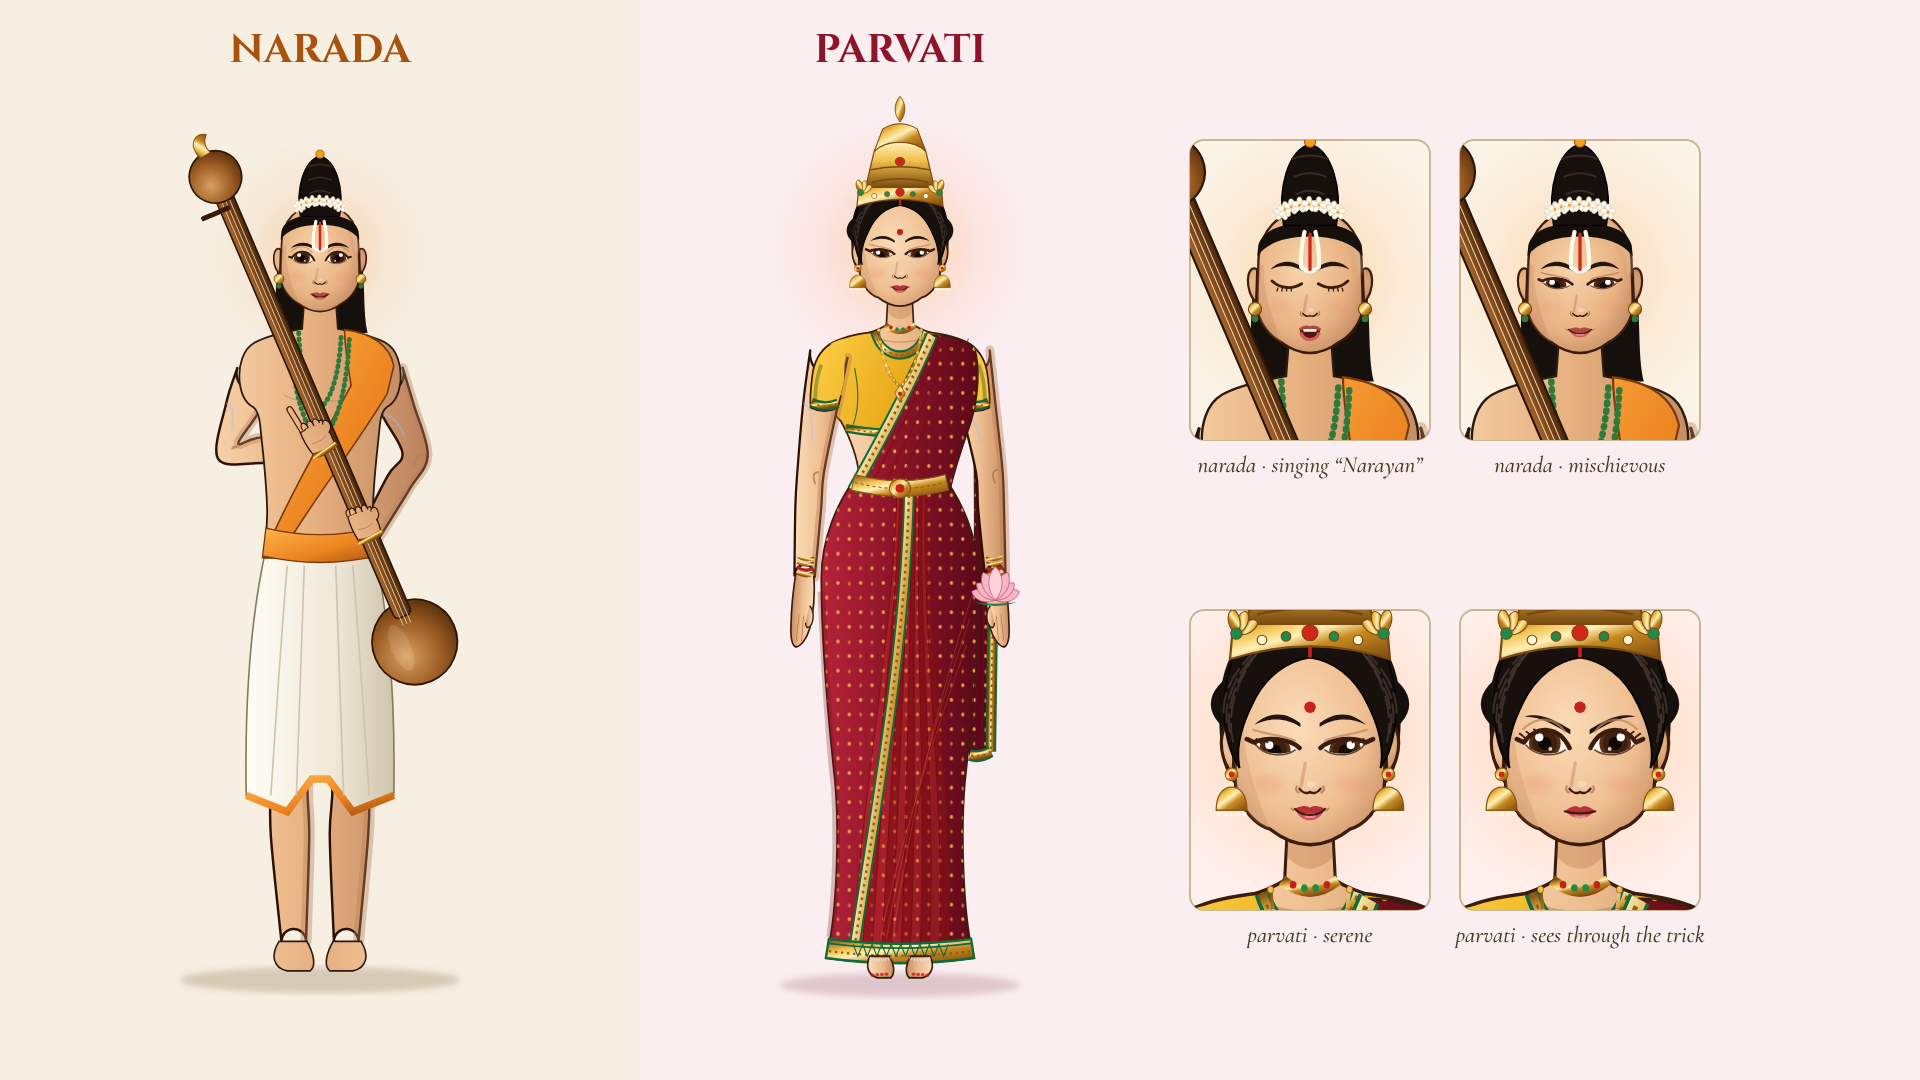
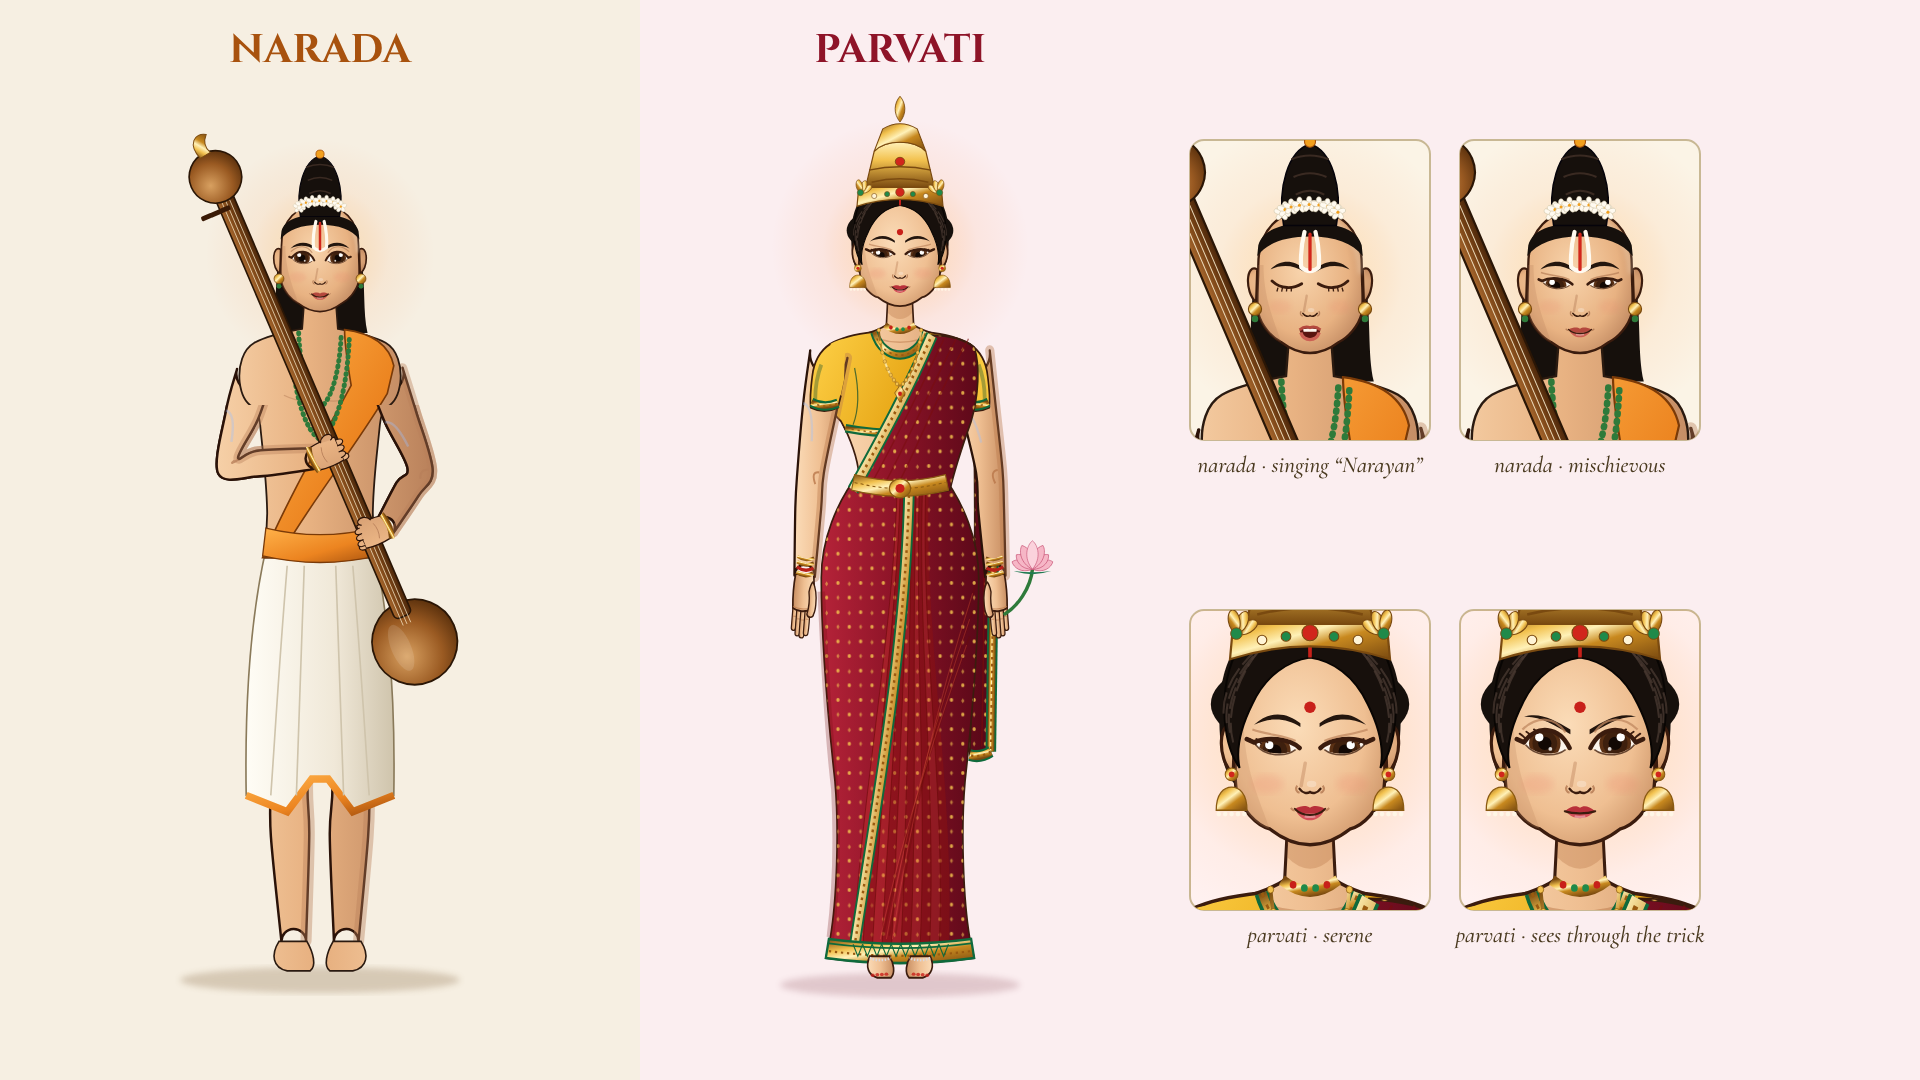
Narada: forearms in front of the body gripping the veena, seamless shoulders; relaxed hands redrawn with fingers; Parvati holds the lotus; skill: mandatory hand check
Claude-Session: https://claude.ai/code/session_01X3ArEdZK7W9b78YVvUKCgo

Changed region(s): [[0.0938, 0.3667, 0.25, 0.5194], [0.5, 0.4889, 0.5625, 0.6111], [0.4062, 0.55, 0.4375, 0.6111]]

diff --git a/devotional-studio/style-frames/narada-parvati.js b/devotional-studio/style-frames/narada-parvati.js
@@ -50,7 +50,9 @@ function narada(x, y, s, o = {}) {
     ${[-46, -30, -14].map((yy, i) => `<path d="M${-17 + i * 2} ${yy} Q 0 ${yy - 7} ${17 - i * 2} ${yy}" stroke="#3a2a22" stroke-width="1.8" fill="none"/>`).join('')}
     ${[...Array(9)].map((_, i) => { const a = Math.PI * (1.05 + i * .11); return `<g transform="translate(${Math.cos(a) * 26},${4 + Math.sin(a) * 9})">${[0, 72, 144, 216, 288].map(r => `<ellipse transform="rotate(${r})" cx="0" cy="-3.6" rx="2.4" ry="3.8" fill="#fffaf0" stroke="#cfc3a6" stroke-width=".5"/>`).join('')}<circle r="1.4" fill="#f2a01e"/></g>`; }).join('')}
     <circle cx="0" cy="-62" r="5" fill="#f2a01e" stroke="#a8520e"/>`;
-  const J1 = { sh: [-80, 206], el: [-112, 300], wr: [4, 296] }, J2 = { sh: [80, 206], el: [116, 304], wr: [60, 402] };
+  // wrists sit just beside the veena neck (neck line: x = 110 + (y - 520) * .4286); fingers wrap across it
+  const J1 = { sh: [-80, 206], el: [-112, 318], wr: [-5, 309] }, J2 = { sh: [80, 206], el: [122, 322], wr: [79, 393] };
+  const armsSvg = A.arm(J1.sh, J1.el, J1.wr, SK, SH, [44, 42, 31, 32, 25]) + A.arm(J2.sh, J2.el, J2.wr, SK, SH, [44, 42, 31, 32, 25]);
   const mala = (w, d, y0) => `<path d="M${-w} ${y0} C ${-w * .9} ${y0 + d * .7} ${-w * .4} ${y0 + d} 0 ${y0 + d + 8} C ${w * .4} ${y0 + d} ${w * .9} ${y0 + d * .7} ${w} ${y0}" fill="none" stroke="#2e7a3a" stroke-width="6" stroke-dasharray="1 6" stroke-linecap="round"/>`;
   const legs = A.arm([-34, 470], [-38, 700], [-32, 898], SK, SH, [70, 66, 46, 48, 30]) + A.arm([34, 470], [38, 700], [32, 898], SK, SH, [70, 66, 46, 48, 30])
     + [-1, 1].map(sx => `<g transform="scale(${sx},1)"><path d="M-50 898 C -60 914 -58 930 -40 934 L -12 934 C -4 928 -8 912 -16 898Z" fill="${SK}" stroke="${INK}" stroke-width="2"/></g>`).join('');
@@ -61,16 +63,18 @@ function narada(x, y, s, o = {}) {
     <path d="M-90 720 L -40 740 L -10 700 L 10 700 L 40 740 L 90 720" stroke="url(#nSaff)" stroke-width="9" fill="none"/>
     ${[-50, -24, 24, 50].map(xx => `<path d="M${xx * .8} 440 C ${xx} 560 ${xx * 1.1} 650 ${xx * 1.2} 720" stroke="#cfc4ac" stroke-width="2" fill="none"/>`).join('')}
     <path d="M-50 60 C -56 100 -52 130 -58 156 L 58 156 C 52 130 56 100 50 60Z" fill="#16100c"/>
-    ${A.arm(J1.sh, J1.el, J1.wr, SK, SH, [44, 42, 31, 32, 25])}${A.arm(J2.sh, J2.el, J2.wr, SK, SH, [44, 42, 31, 32, 25])}
+    ${armsSvg}
     <path d="${TORSO}" fill="${SK}" stroke="${INK}" stroke-width="2.2"/>
     <path d="M-44 232 Q -24 242 -6 238 M44 232 Q 24 242 6 238" stroke="${SH}" stroke-width="1.6" fill="none" opacity=".5"/>
     <!-- saffron sash over the left shoulder -->
     <path d="M30 152 C 60 156 84 168 90 196 L 82 230 C 40 300 -10 360 -50 430 L -70 430 C -40 360 0 290 38 220 C 34 196 30 172 30 152Z" fill="url(#nSaff)" stroke="#7a3a08" stroke-width="2"/>
     <path d="M-66 394 Q 0 410 66 394 L 70 428 Q 0 444 -70 428Z" fill="url(#nSaff)" stroke="#7a3a08" stroke-width="1.6"/>
     ${mala(36, 120, 158)}${mala(26, 84, 156)}
+    <clipPath id="naFore${o.id || ''}"><rect x="-300" y="244" width="600" height="400"/></clipPath>
+    <g clip-path="url(#naFore${o.id || ''})">${armsSvg}</g>
     ${veena(o.t || 0)}
-    <g transform="translate(4,296) rotate(-30) scale(.62)">${A.holdingHand(SK, SH, 1, true)}</g>
-    <g transform="translate(60,402) rotate(-24) scale(.62)">${A.holdingHand(SK, SH, 1, false)}</g>
+    <g transform="translate(${J1.wr[0]},${J1.wr[1]}) rotate(67) scale(.62)">${A.holdingHand(SK, SH, -1, false)}</g>
+    <g transform="translate(${J2.wr[0]},${J2.wr[1]}) rotate(-113) scale(.62)">${A.holdingHand(SK, SH, 1, false)}</g>
     ${F.faceP(face)}
     <path d="M-47 32 C -43 18 -27 12 0 12 C 27 12 43 18 47 32 L 48 42 C 39 30 23 24 0 24 C -23 24 -39 30 -48 42Z" fill="#16100c"/>
     ${topKnot}${namam}
@@ -116,7 +120,10 @@ function parvati(x, y, s, o = {}) {
   let body = C.tulasi(x, y, s, { ...o, pose: o.pose || 'neutral', headSvg: parvatiHead(o) });
   body = body.replace(/url\(#tBlouse\)/g, 'url(#pBlouse)').replace(/url\(#tSaree\)/g, 'url(#pSaree)').replace(/url\(#tButta\)/g, 'url(#pButta)').replace(/url\(#tSkin\)/g, 'url(#pSkin)');
   // lotus in her left hand (screen right)
-  const lotus = o.lotus === false ? '' : `<g transform="translate(${x + 111 * s},${y + 470 * s}) scale(${.42 * s})">${A.lotus(0, 0, 1, '#f6b6c6', '#c64f73')}</g>`;
+  // lotus held between the fingers: stem leaves the outer edge of the hand and rises beside the forearm
+  const hx = x + 122 * s, hy = y + 486 * s;
+  const lotus = o.lotus === false ? '' : `<path d="M${hx} ${hy} C ${hx + 14 * s} ${hy - 8 * s} ${hx + 30 * s} ${hy - 30 * s} ${hx + 32 * s} ${hy - 52 * s}" stroke="#2e7a3a" stroke-width="${4 * s}" fill="none" stroke-linecap="round"/>
+    <g transform="translate(${hx + 32 * s},${hy - 52 * s}) scale(${.36 * s})">${A.lotus(0, 0, 1, '#f6b6c6', '#c64f73')}</g>`;
   return `<g><circle cx="${x}" cy="${y + 60 * s}" r="${150 * s}" fill="url(#lampGlow)" opacity=".5"/>${body}${lotus}</g>`;
 }
 

diff --git a/devotional-studio/engine/characters.js b/devotional-studio/engine/characters.js
@@ -178,10 +178,13 @@ function tulasi(x, y, s = 1, o = {}) {
     ? { r: { sh: [-92, 184], el: [-104, 318], wr: [-20, 262] }, l: { sh: [92, 184], el: [104, 318], wr: [20, 262] } }
     : { r: { sh: [-94, 184], el: [-118, 320], wr: [-126, 442] }, l: { sh: [94, 184], el: [118, 320], wr: [126, 442] } };
   const armW = [50, 47, 35, 35, 27];
+  // relaxed hanging hand, side view: palm + four separate fingers + thumb in front (verified at close-up)
   const relaxedHand = (sx) => `<g transform="translate(${sx * 126},442) rotate(${sx * -4}) scale(${sx},1)">
-      <path d="M-12 -2 C -15 18 -15 40 -11 60 C -8 72 -1 82 6 83 C 12 81 14 70 14 57 C 15 38 14 18 12 -2Z" fill="${SK}" stroke="${INK}" stroke-width="${LW}"/>
-      <path d="M-9 34 C -16 40 -16 52 -11 58 C -8 61 -5 58 -5 54" fill="${SK}" stroke="${INK}" stroke-width="1.8"/>
-      <path d="M-2 46 L -1 76 M4 44 L 6 76" stroke="${SH}" stroke-width="1.3" opacity=".8"/>
+      ${[[10, 30, 5.6], [4.5, 36, 6], [-1, 38, 6.2], [-6.5, 35, 6]].map(([fx, len, w]) => `<path d="M${fx - w / 2} 34 C ${fx - w / 2 - .6} ${34 + len * .5} ${fx - w / 2} ${34 + len * .8} ${fx - w / 2 + .6} ${34 + len - w / 2} A ${w / 2} ${w / 2} 0 0 0 ${fx + w / 2 + .6} ${34 + len - w / 2} C ${fx + w / 2 + .6} ${34 + len * .8} ${fx + w / 2 + .4} ${34 + len * .5} ${fx + w / 2} 34Z" fill="${SK}" stroke="${INK}" stroke-width="1.6"/>
+        <path d="M${fx - w / 2 + 1} ${34 + len * .45} L ${fx + w / 2 - 1} ${34 + len * .45}" stroke="${SH}" stroke-width="1" opacity=".8"/>`).join('')}
+      <path d="M-12 -2 C -14 12 -14 26 -11 38 C -4 42 6 42 13 38 C 14 26 14 12 12 -2Z" fill="${SK}" stroke="${INK}" stroke-width="${LW}"/>
+      <path d="M-11 36 C -4 39 6 39 13 36" stroke="${SH}" stroke-width="1.2" fill="none" opacity=".7"/>
+      <path d="M-11.5 6 C -14 10 -17.5 20 -17 32 C -16.8 38 -16 41 -15 43 A 4.6 4.6 0 0 0 -6 44 C -8 37 -8.5 26 -7 18 C -8 12 -9.5 8 -11.5 6Z" stroke-linejoin="round" fill="${SK}" stroke="${INK}" stroke-width="1.8"/>
       <path d="M-11 -4 Q 0 2 11 -4" stroke="url(#gold)" stroke-width="5" fill="none"/>
       <path d="M-11 -10 Q 0 -4 11 -10" stroke="#b8201a" stroke-width="4" fill="none"/>
       <path d="M-11 -16 Q 0 -10 11 -16" stroke="url(#gold)" stroke-width="4" fill="none"/>

diff --git a/.claude/skills/divine-stories-studio/SKILL.md b/.claude/skills/divine-stories-studio/SKILL.md
@@ -167,5 +167,10 @@ No emojis in the voice text. Give the hero's quoted line a separate voice when p
 - [ ] no text in the safe zones; captions never cover the face's eyes
 - [ ] no black edges when the camera moves (backgrounds drawn oversized: x −800 … 2720, y −800 … 1880)
 - [ ] character matches the locked face + costume; expressions read at phone size
+- [ ] HANDS (mandatory, every new character, pose or shot): render a 2× close-up crop of every hand and check —
+      each hand connects to its forearm (no floating or cut-off hands; forearms that cross the body are drawn IN FRONT of the torso),
+      shoulders show no seam (upper arm behind the torso, forearm in front via a clip),
+      5 digits with rounded tips (no claws, no mittens), a held object passes through/against the fingers (staff, veena, lotus stem, chakra on fingertip),
+      and the hand stays inside the frame for the whole shot (check first, middle and last frame)
 - [ ] max 3 white flashes; no flicker under 0.1 s
 - [ ] audio −14 LUFS, voice clearly above music, no clipping
